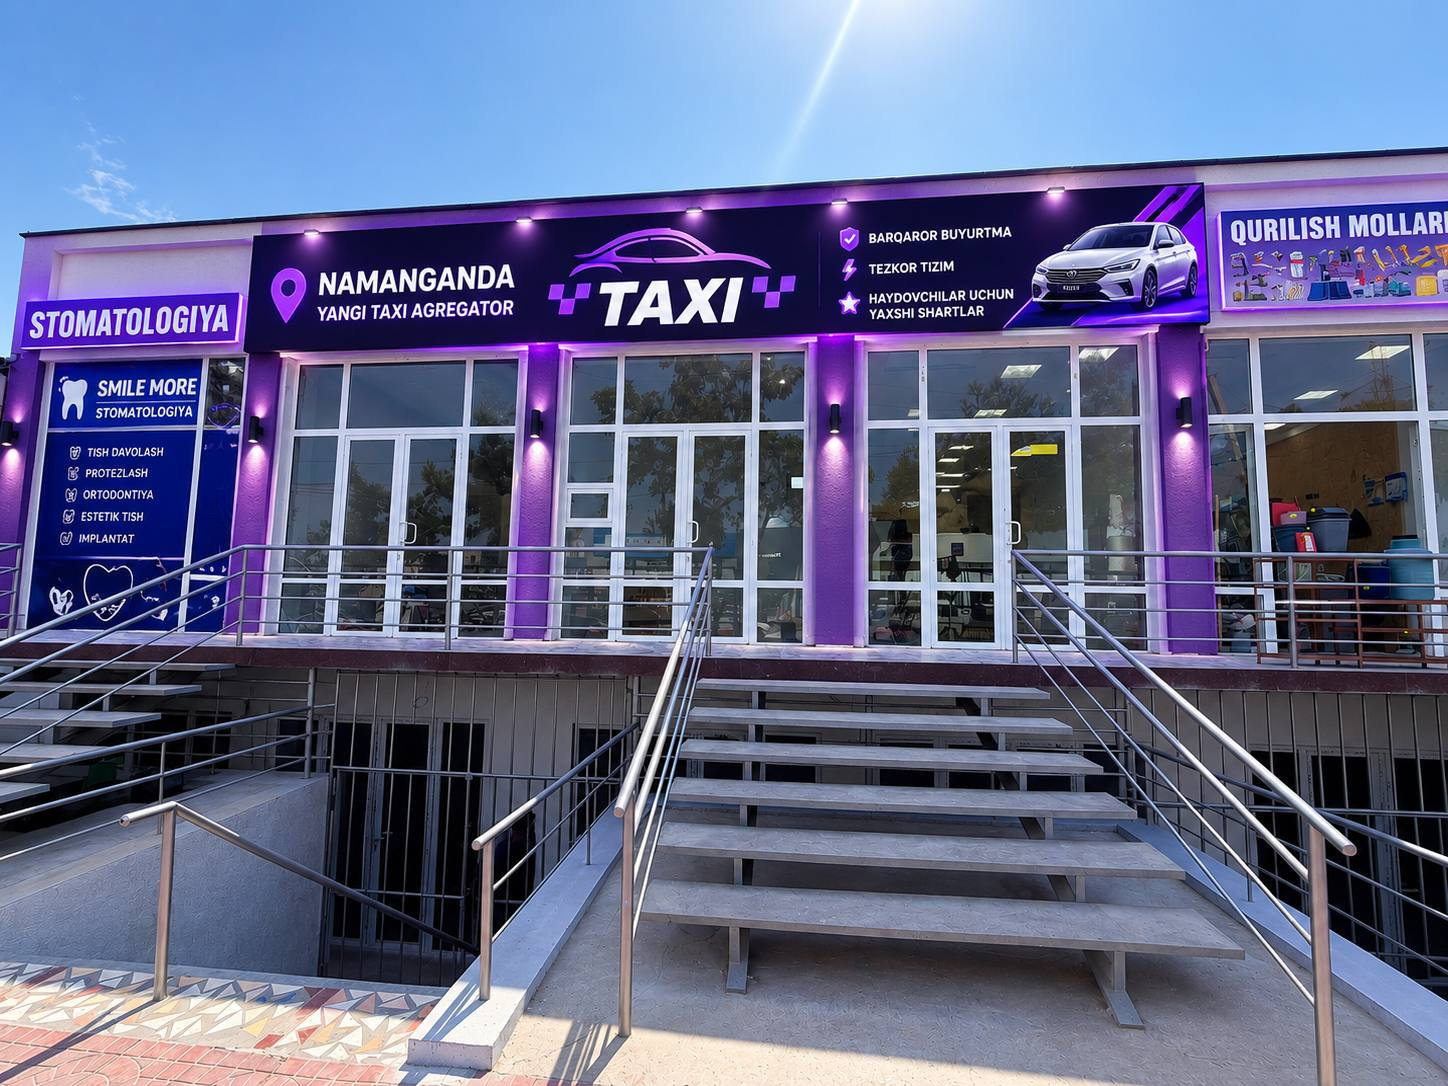
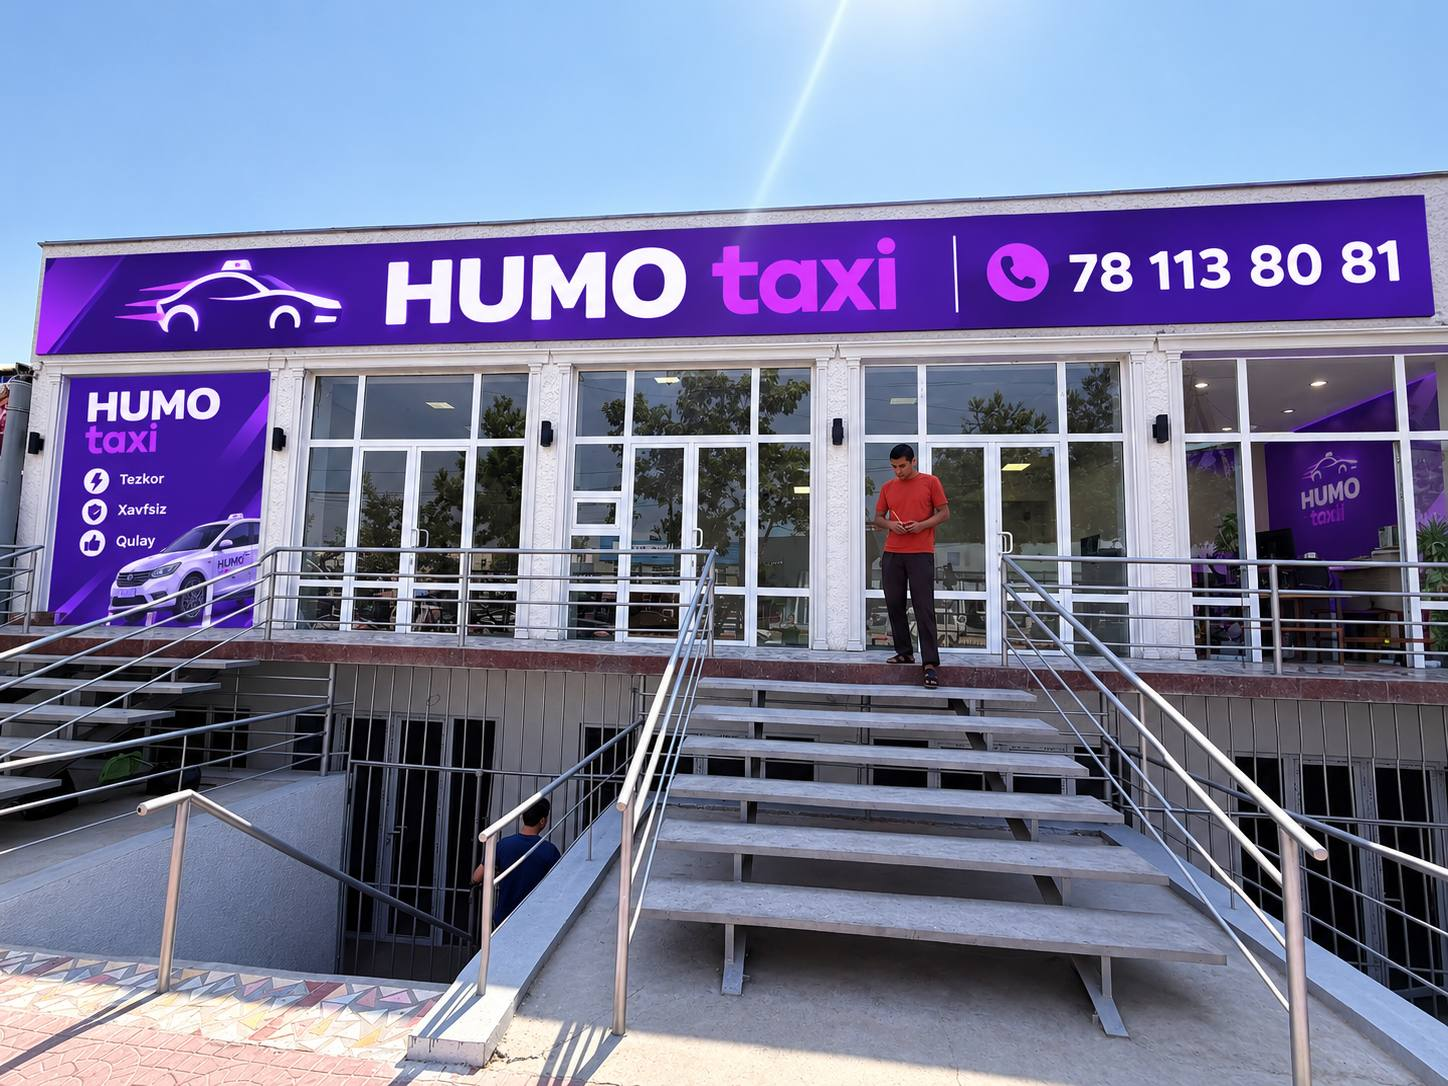
Update office photo and invalidate cache; prevent deleting unarchived applications

diff --git a/bot/handlers/operator.py b/bot/handlers/operator.py
@@ -28,7 +28,7 @@ logger = logging.getLogger(__name__)
 READY_TEXT = (
     "✅ <b>YANGI TAXI’ga arizangiz muvaffaqiyatli qabul qilindi!</b>\n\n"
     "📞 Tez orada operatorlarimiz siz bilan bog‘lanishadi.\n\n"
-    "💬 Savollar uchun: <b>@humo_namangan</b>"
+    "💬 Savollar uchun: <b>@arizalarnamangan</b>"
 )
 
 
@@ -87,7 +87,23 @@ async def on_operator_button(update: Update, context: ContextTypes.DEFAULT_TYPE)
         # 1. Retrieve stored message IDs for this application
         app_info = context.bot_data.get("app_messages", {}).get(applicant_id)
 
+        if not ARCHIVE_GROUP or not app_info:
+            await query.message.reply_text(
+                "⚠ Arxivga yuborilmadi. "
+                + ("ARCHIVE_GROUP sozlanmagan." if not ARCHIVE_GROUP else
+                   "Bu arizaning saqlangan xabar ma’lumotlari topilmadi.")
+                + " Ariza o‘chirilmadi."
+            )
+            return
+        if (str(app_info["group_chat_id"]) != str(op_chat_id)
+                or app_info.get("kb_msg_id") != query.message.message_id):
+            await query.message.reply_text(
+                "⚠ Bu tugma boshqa yoki eski arizaga tegishli. Ariza o‘chirilmadi."
+            )
+            return
+
         # 2. Copy to archive group
+        archive_failed = False
         if ARCHIVE_GROUP and app_info:
             src_chat = app_info["group_chat_id"]
             photo_ids = app_info.get("photo_msg_ids", [])
@@ -96,11 +112,14 @@ async def on_operator_button(update: Update, context: ContextTypes.DEFAULT_TYPE)
             # Try copy_messages (album grouping), fall back to one-by-one
             if photo_ids:
                 try:
-                    await context.bot.copy_messages(
+                    copied = await context.bot.copy_messages(
                         chat_id=ARCHIVE_GROUP,
                         from_chat_id=src_chat,
                         message_ids=photo_ids,
                     )
+                    if len(copied) != len(photo_ids):
+                        archive_failed = True
+                        logger.warning("archive: incomplete album copy")
                 except Exception as e:
                     logger.warning("archive: copy_messages failed (%s), trying one-by-one", e)
                     for mid in photo_ids:
@@ -111,6 +130,7 @@ async def on_operator_button(update: Update, context: ContextTypes.DEFAULT_TYPE)
                                 message_id=mid,
                             )
                         except Exception as e2:
+                            archive_failed = True
                             logger.warning("archive: copy_message(%s) failed: %s", mid, e2)
 
             # Copy info message (inline keyboard stripped automatically)
@@ -122,7 +142,17 @@ async def on_operator_button(update: Update, context: ContextTypes.DEFAULT_TYPE)
                         message_id=kb_msg_id,
                     )
                 except Exception as e:
+                    archive_failed = True
                     logger.warning("archive: could not copy info message: %s", e)
+
+        if archive_failed:
+            await query.message.reply_text(
+                "⚠ Arxivga to‘liq yuborilmadi, asl ariza o‘chirilmadi. "
+                "Bot arxiv guruhiga qo‘shilganini, xabar va rasm yuborish "
+                "huquqini hamda ARCHIVE_GROUP to‘g‘riligini tekshiring. "
+                "So‘ng «Tayyor» tugmasini qayta bosing."
+            )
+            return
 
         # 3. Notify applicant
         try:

diff --git a/bot/handlers/start.py b/bot/handlers/start.py
@@ -1,3 +1,4 @@
+from hashlib import sha256
 from pathlib import Path
 
 from telegram import InlineKeyboardButton, InlineKeyboardMarkup, ReplyKeyboardMarkup, Update
@@ -64,8 +65,9 @@ def build_contact_handler() -> MessageHandler:
 
 
 async def show_office(update: Update, context: ContextTypes.DEFAULT_TYPE) -> None:
+    photo_hash = sha256(OFFICE_PHOTO.read_bytes()).hexdigest()
     cached_photo = context.bot_data.get("office_photo_file_id")
-    if cached_photo:
+    if cached_photo and context.bot_data.get("office_photo_hash") == photo_hash:
         await update.message.reply_photo(
             photo=cached_photo, caption=OFFICE_CAPTION,
             parse_mode="HTML", reply_markup=OFFICE_KEYBOARD,
@@ -78,6 +80,7 @@ async def show_office(update: Update, context: ContextTypes.DEFAULT_TYPE) -> Non
             )
         if sent.photo:
             context.bot_data["office_photo_file_id"] = sent.photo[-1].file_id
+            context.bot_data["office_photo_hash"] = photo_hash
 
 
 def build_office_handler() -> MessageHandler:
